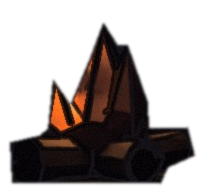
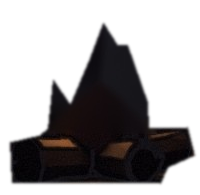
T16-04: ana menü - yolcular yüksek çözünürlüklü oturuşla, ateş dalgalanan dillerle

Changed region(s): [[0.24, 0.2154, 0.66, 0.6769]]

diff --git a/tools/ui_scenes/camp_fire_front.py b/tools/ui_scenes/camp_fire_front.py
@@ -3,6 +3,11 @@ yolcunun bacakları ateşin arkasında kalsın diye, o yolcunun üstüne yeniden
 (GrimDrafts.FIRE_FRONT_RECT). Çokgen arka planın 1920x1080 piksellerinde elle izlendi.
 
     python3 -I tools/ui_scenes/camp_fire_front.py
+
+Render'ın alevi köşeli tek renk konilerdi (kullanıcı, 2026-11-02, T16-04): koniler
+render'dan silinir (OpenCV inpaint, yalnız alev bölgesi, odunlar kalır) ve
+background.jpg buradan yazılır; alev oyunda `CampFlame` ile dalgalanan dillerle
+çizilir. Kaynak render art_source/ui_scenes/camp_background_render.jpg.
 """
 import os
 from PIL import Image, ImageDraw, ImageFilter
@@ -12,6 +17,19 @@ CAMP = os.path.join(ROOT, "data", "assets", "ui", "towns", "camp")
 BOX = (460, 665, 660, 860)
 OUTLINE = [(472, 847), (470, 807), (500, 800), (508, 793), (513, 745), (530, 770), (550, 723), (563, 688),
            (577, 710), (587, 710), (607, 767), (608, 793), (647, 792), (654, 820), (627, 832), (620, 848)]
+
+import cv2
+import numpy as np
+
+SOURCE = os.path.join(ROOT, "art_source", "ui_scenes", "camp_background_render.jpg")
+# Alev konilerinin bölgesi (odunların üstü), 1920x1080 pikselinde elle izlendi.
+FLAME = [(503, 796), (507, 742), (528, 700), (556, 660), (582, 658), (598, 700), (614, 758), (614, 796)]
+raw = cv2.imread(SOURCE)
+flame_mask = np.zeros(raw.shape[:2], np.uint8)
+cv2.fillPoly(flame_mask, [np.array(FLAME, np.int32)], 255)
+flame_mask = cv2.dilate(flame_mask, np.ones((5, 5), np.uint8))
+clean = cv2.inpaint(raw, flame_mask, 9, cv2.INPAINT_TELEA)
+cv2.imwrite(os.path.join(CAMP, "background.jpg"), clean, [cv2.IMWRITE_JPEG_QUALITY, 94])
 
 bg = Image.open(os.path.join(CAMP, "background.jpg")).convert("RGBA")
 mask = Image.new("L", bg.size, 0)

diff --git a/tools/figure_pipeline/mesh/pack_hd.py b/tools/figure_pipeline/mesh/pack_hd.py
@@ -3,7 +3,7 @@
     WAYBORNE_HD=3 blender -b --python tools/figure_pipeline/blender/render_frames.py -- --variant V --clip idle
     WAYBORNE_HD=3 blender -b --python tools/figure_pipeline/blender/render_outfits.py -- --variant V --clips idle
     python -X utf8 tools/figure_pipeline/mesh/pack_hd.py [--variants male_average,...] [--scale 3]
-        [--items hair_short01,...] [--outfits-only]
+        [--items hair_short01,...] [--outfits-only] [--clips idle,sit_box]
 
 --outfits-only: beden kümesi yeniden paketlenmez (kaynağı yine gerekir, kalemler
 bedenin eklemlerine oturur); yeni kalem eklenince oyundaki beden kümesi değişmesin.
@@ -55,9 +55,14 @@ def main():
     variants = build["variants"]
     if "--variants" in sys.argv:
         variants = sys.argv[sys.argv.index("--variants") + 1].split(",")
-    idle = dict(build["clips"]["idle"])
-    idle["anchor_px"] = [v * scale for v in idle["anchor_px"]]
-    hd_build = {"clips": {"idle": idle}}
+    # --clips idle,sit_box (2026-11-02, T16-04): menünün oturan yolcuları için
+    # oturuşun yakın plan kümesi; varsayılan yalnız duruş.
+    clips = sys.argv[sys.argv.index("--clips") + 1].split(",") if "--clips" in sys.argv else ["idle"]
+    hd_build = {"clips": {}}
+    for name in clips:
+        clip = dict(build["clips"][name])
+        clip["anchor_px"] = [v * scale for v in clip["anchor_px"]]
+        hd_build["clips"][name] = clip
     items = list(json.load(open(os.path.join(PIPE, "config", "outfits.json")))["items"])
     if "--items" in sys.argv:
         items = sys.argv[sys.argv.index("--items") + 1].split(",")

diff --git a/proje_takibi/YAPILAN_ISLER.md b/proje_takibi/YAPILAN_ISLER.md
@@ -2,7 +2,7 @@
 
 Bitmiş ve doğrulanmış (testi ya da kullanıcı onayı geçmiş) görevler. Kod dalı: `wayborne`, `yerel/yapilacaklar-p05-p06` (önceki tur `yerel/yapilacaklar-p01-p04`). Push edilmedi.
 
-Toplam: **194** görev. Belgeler `referans/belge_uret.py` ile `referans/gorevler.json`'dan üretilir.
+Toplam: **195** görev. Belgeler `referans/belge_uret.py` ile `referans/gorevler.json`'dan üretilir.
 
 ## Paket P01
 
@@ -3414,6 +3414,20 @@ Toplam: **194** görev. Belgeler `referans/belge_uret.py` ile `referans/gorevler
 - [ ] **T16-03 Batıya giden yolda kervan sola yürür; geri dönen kervanın tamamı döner**
   - **Ne:** Kullanıcı: "Batıya giden yolda kervanın sola yürümesi. Bir noktada kervan geri dönmek isteyebilir, bunu yaparsa tüm kervan geriye dönebilmeli." Yol ekranı haritadaki yöne göre aynalanır: bant, işaretler, duraklar ve kapılar; yazılar ters dönmez.
   - **Kim:** C · **Eski:** Yol yönü hedefi
+
+</details>
+
+### T16-04 · Ana menü: öndeki iki yolcu net, ateş yumuşak
+
+- **Durum:** bitti · **Öncelik:** P1 · **Paket:** P19 · **Kim:** Claude yapar, kullanıcı görsel/tasarım onayı verir
+- **Ayrıntı ve geçmiş:** [referans/gorevler/16_oyun_testi_isleri.md](referans/gorevler/16_oyun_testi_isleri.md)
+- **Son not:** 2026-11-02 kullanıcı listesi. Eski: 9.2, Y-G16. | Bitti: yolcular oturuşun 3 kat çözünürlüklü kümesiyle (sit_box HD: male_heavy, female_lean, male_lean bedenleri ve giysileri; pack_hd --clips; WalkFigure HD artık oturan klipte de), ateş ışığı yolcuları yıkamıyor (firelit 1.1→0.85); render'ın köşeli konisi arka plandan silindi (camp_fire_front.py, OpenCV inpaint; ham render art_source/ui_scenes) ve yerine dalgalanan diller (CampFlame) çiziliyor. Ekran: screenshot_menu.
+
+<details><summary>Görev metni</summary>
+
+- [ ] **T16-04 Ana menü: öndeki iki yolcu net, ateş yumuşak**
+  - **Ne:** Ana menüde öndeki iki yolcu bulanık, pikselli ve soluk; arka plandaki ateş köşeli tek renk parçalar. İkisi de düzelir, ekran görüntüsüyle doğrulanır.
+  - **Kim:** CO · **Eski:** 9.2, Y-G16
 
 </details>
 

diff --git a/proje_takibi/KALAN_ISLER.md b/proje_takibi/KALAN_ISLER.md
@@ -2,7 +2,7 @@
 
 Başlanmamış görevler: kullanıcının işi (S), kullanıcı kararı (CK), kullanıcının içeriği ya da lore (CI) ve yeni eklenen oyun hissi alt görevleri (N31a-f). Her birinin neden beklediği 'Kim' satırında.
 
-Toplam: **19** görev. Belgeler `referans/belge_uret.py` ile `referans/gorevler.json`'dan üretilir.
+Toplam: **18** görev. Belgeler `referans/belge_uret.py` ile `referans/gorevler.json`'dan üretilir.
 
 ## Paket P00
 
@@ -292,20 +292,6 @@ Toplam: **19** görev. Belgeler `referans/belge_uret.py` ile `referans/gorevler.
 </details>
 
 ## Paket P19
-
-### T16-04 · Ana menü: öndeki iki yolcu net, ateş yumuşak
-
-- **Durum:** açık · **Öncelik:** P1 · **Paket:** P19 · **Kim:** Claude yapar, kullanıcı görsel/tasarım onayı verir
-- **Ayrıntı ve geçmiş:** [referans/gorevler/16_oyun_testi_isleri.md](referans/gorevler/16_oyun_testi_isleri.md)
-- **Son not:** 2026-11-02 kullanıcı listesi. Eski: 9.2, Y-G16.
-
-<details><summary>Görev metni</summary>
-
-- [ ] **T16-04 Ana menü: öndeki iki yolcu net, ateş yumuşak**
-  - **Ne:** Ana menüde öndeki iki yolcu bulanık, pikselli ve soluk; arka plandaki ateş köşeli tek renk parçalar. İkisi de düzelir, ekran görüntüsüyle doğrulanır.
-  - **Kim:** CO · **Eski:** 9.2, Y-G16
-
-</details>
 
 ### T16-11 · Haritada adı olan her yer oynanabilir
 
